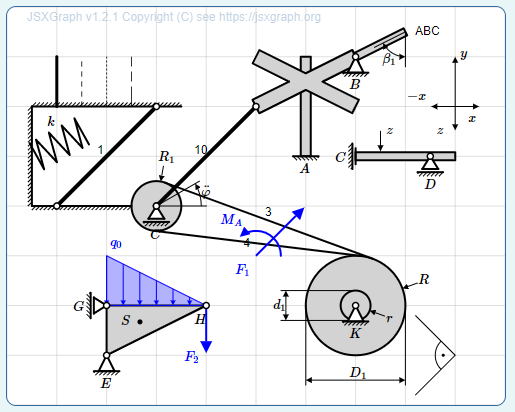
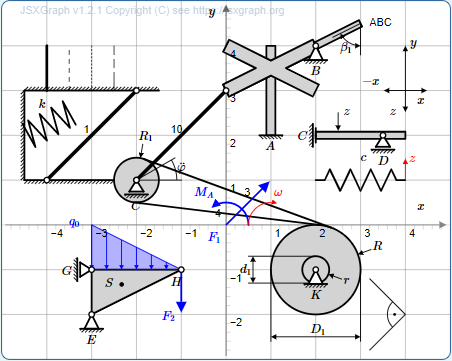
Add axes function to "grid"
Add axes function to "grid"
Update demo question
Add link to jsfiddle

diff --git a/README.md b/README.md
@@ -7,8 +7,9 @@ Meclib is a special JSXGraph block to be copied into the STACK question. It cont
 The set of objects is created with sketches of mechanical systems in mind (support and load symbols, bars, ropes, disks, annotations).
 
 
+[Demo question](STACK%20MecLib%20Demo.xml)
 
-[Demo question](quiz-MMM-MecLib%20Demo%20Github-20210615-1446.xml)
+[jsfiddle tryout](https://jsfiddle.net/gxek1w3j/2/)
 
 ![Demo](demo2.png?raw=true "Screenshot from the demo question")
 
@@ -36,7 +37,7 @@ All co-ordinates and lengths are in user units as specified with `"grid"`, angle
 <li><code>[ "fix123", "&lt;name&gt;", [x, y], angle ]</code> built-in support, prevents translation and rotation.</li>
 <li><code>[ "fix13", "&lt;name&gt;", [x, y], angle ]</code> axial and angular support, floats in vertical direction for angle = 0</li>
 <li><code>[ "force", "&lt;name&gt;", [x1, y1], [x2,y2], d ]</code> force vector. d (in pix) controls the distance of the label. If d is negative, the label is drawn at the tail, if positiv or d is not given the label is at the head of the arrow.</li>
-<li><code>[ "grid", "xlabel","ylabel", xmin, xmax, ymin, ymax, pix ]</code> Grid specification (range of user co-ordinates and user unit in pixels). Must be the first object in the list, otherwise scaling of the other objects might be wrong. xlabel and ylabel are axis labels. Currently no axes are drawn and the labels are ignored.</li>
+<li><code>[ "grid", "xlabel","ylabel", xmin, xmax, ymin, ymax, pix ]</code> Grid specification (range of user co-ordinates and user unit in pixels). Must be the first object in the list, otherwise scaling of the other objects might be wrong. xlabel and ylabel are axis labels. Axes are only drawn if labels aren't empty.</li>
 <li><code>[ "label", "&lt;name&gt;", [x, y] ]</code> label, text anchor is center left, default: no Latex, use <code>\<span class="nolink">\(   \\)</span></code> to enforce Latex mode for text.</li>
 <li><code>[ "line", "&lt;name&gt;", [x1, x2,...], [y1, y2,...] ,dash, th ]</code>  polyline with optional dash style ( "--", ".", "-."..defaults to solid line) and thickness (defaults to 0.8)</li>
 <li><code>[ "moment", "&lt;name&gt;", [x1, y1], [x2,y2], [x3,y3] ]</code>Moment arrow specified by center point, tail point (defines start angle and radius) and label point (defines end angle and radial label position. Orientation is such that the angle is less then 180° (shortest arc from start angle to end angle).</li>
@@ -45,7 +46,6 @@ All co-ordinates and lengths are in user units as specified with `"grid"`, angle
 <li><code>[ "polygon", "&lt;name&gt;", [x1, y1], [x2,y2],... ]</code> polygon with gray fill</li>
 <li><code>[ "q", "&lt;q1&gt;","&lt;q2&gt;", [x1, y1], [x2,y2], q1, q2, phi ]</code> Line load inclined by phi degrees from perpendicular to line between point 1 and point 2. Names are displayed as labels, q1 and q2 give the height.</li>
 <li><code>[ "rope", "&lt;name&gt;", [x1, y1], r1, [x2,y2], r2 ]</code> tangent line to two circles with center and radius given. Negative r values select the tangent point on the left side from the line C1-C2.</li>
-<li><code>[ "rot", "&lt;name&gt;", [x1, y1], [x2,y2], [x3,y3] ]</code> Red thin arrow (to indicate rotational kinematic quantities) specified by center point, tail point (defines start angle and radius) and label point (defines end angle and radial label position. Orientation is such that the angle is less then 180° (shortest arc from start angle to end angle).</li>
 <li><code>[ "springc", "", [x1, y1], [x2,y2], r, n, off ]</code>  compression spring, normal line with n turns of radius r and label offset off</li>
 <li><code>[ "springt", "", [x1, y1], [x2,y2], r, lf, (n (, off)) ] </code>  tensile spring, normal line with n turns of radius r and label offset off, lf length of terminal lines in percent of total length.</li>
 <li><code>[ "wall", "&lt;name&gt;", [x1, y1], [x2,y2] , angle ]</code> Normal line with thin hatching at left side, specified by start and end point. Angle controls the direction of the hatch lines (usually +45/-45).</li>
@@ -74,13 +74,13 @@ Usually, there is no need to edit the block.
 ## Template for Question Variables
 
 You have to define a Maxima list of lists and apply `stackjson_stringify()` to it. The name must be `init` unless you change that in the JSXGraph block.
-Changing the name is required if you want to use more than one JSXGraph widget in a STACK question. Values in round brackets () are optional. Vertical lines delimit alternatives.
+Changing the name is required if you want to use more than one JSXGraph widget in a STACK question.
 
 ```
 th: 0.13;
 initdata: [ 
   [ "grid", "xlabel","ylabel", xmin, xmax, ymin, ymax, pix ],
-  [ "angle", ".", [xc, yc], [xs,ys], radius, (-)90 ],
+  [ "angle", ".", [xc, yc], [xs,ys], radius, +/-90 ],
   [ "angle", "", [xc, yc], [xs,ys], radius, angle ],
   [ "angle2", "", [xc, yc], [xs,ys], radius, angle ],
   [ "bar", "", [x1, y1], [x2, y2] ],
@@ -89,8 +89,8 @@ initdata: [
   [ "circle", "", [xc, yc], [xp,yp] , angle],
   [ "circle", "", [xc, yc], radius , angle],
   [ "dim", "", [x1, y1], [x2,y2], d ],
-  [ "dir", "", [x1, y1], angle(, offset(, length)) ],
-  [ "disp", "", [x1, y1], angle(, offset(, length)) ],
+  [ "dir", "", [x1, y1], angle, offset, length ],
+  [ "disp", "", [x1, y1], angle, offset, length ],
   [ "fix1", "", [x, y], angle ],
   [ "fix12", "", [x, y], angle ],
   [ "fix123", "", [x, y], angle ],
